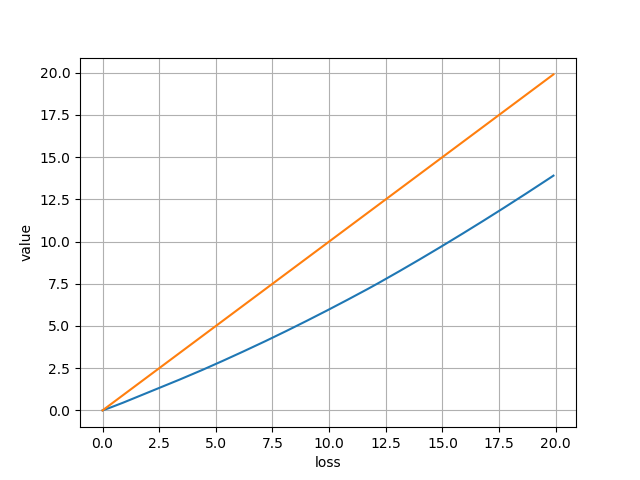
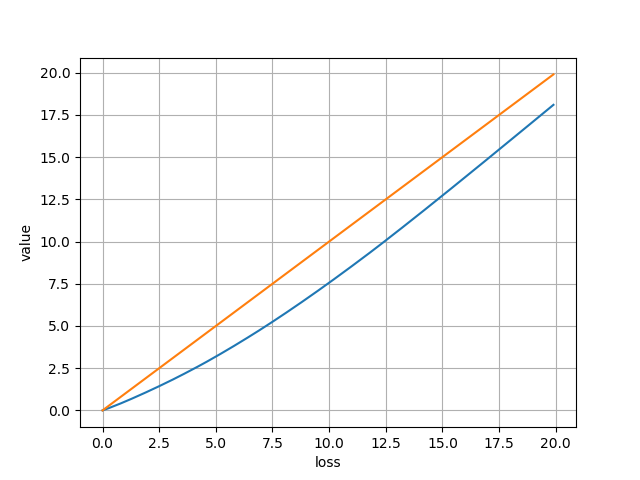
Fix dataloaders

diff --git a/meta-weight-net-class-imbalance.py b/meta-weight-net-class-imbalance.py
@@ -100,8 +100,8 @@ for cls_idx, img_id_list in data_list.items():
 print(len(idx_to_del))
 
 imbalanced_train_dataset = copy.deepcopy(train_data)
-imbalanced_train_dataset.train_labels = np.delete(train_loader.dataset.train_labels, idx_to_del, axis=0)
-imbalanced_train_dataset.train_data = np.delete(train_loader.dataset.train_data, idx_to_del, axis=0)
+imbalanced_train_dataset.targets = np.delete(train_loader.dataset.targets, idx_to_del, axis=0)
+imbalanced_train_dataset.data = np.delete(train_loader.dataset.data, idx_to_del, axis=0)
 imbalanced_train_loader = torch.utils.data.DataLoader(
     imbalanced_train_dataset, batch_size=args.batch_size, shuffle=True, **kwargs)
 
@@ -158,21 +158,10 @@ def main():
     x = np.arange(0.00, 20.00, 0.1)
     cost_v = torch.tensor(x).float().view(-1, 1).cuda()
     v_lambda = vnet(cost_v)
-    norm_c = torch.sum(v_lambda)
-
-    if norm_c != 0:
-        v_lambda_norm = v_lambda / norm_c
-    else:
-        v_lambda_norm = v_lambda
-
-    l_f_meta_array_norm = cost_v * v_lambda_norm
-    l_f_meta_array = cost_v * v_lambda
-
     fig, ax = plt.subplots()
-    ax.plot(x, l_f_meta_array.cpu().detach().numpy())
-    ax.plot(x, x)
 
-    ax.set(xlabel='loss', ylabel='value')
+    ax.plot(x, v_lambda.cpu().detach().numpy())
+    ax.set(xlabel='loss', ylabel='weight')
     ax.grid()
 
     address = "task.png"
@@ -193,9 +182,6 @@ def train(train_loader, validation_loader,model, vnet,optimizer_a,optimizer_c,ep
         input_var = to_var(input, requires_grad=False)
         target_var = to_var(target, requires_grad=False)
 
-        for i in range(10):
-            print(len(np.where(target==i)[0]))
-        print()
         meta_model = build_model()
 
         meta_model.load_state_dict(model.state_dict())
@@ -221,7 +207,6 @@ def train(train_loader, validation_loader,model, vnet,optimizer_a,optimizer_c,ep
         del grads
 
         input_validation, target_validation = next(iter(validation_loader))
-        print(len(validation_loader))
         input_validation_var = to_var(input_validation, requires_grad=False)
         target_validation_var = to_var(target_validation, requires_grad=False)
         y_g_hat = meta_model(input_validation_var)

diff --git a/data_utils.py b/data_utils.py
@@ -58,10 +58,10 @@ def build_dataset(dataset,num_meta):
         idx_to_train.extend(img_id_list[img_num:])
     train_data = copy.deepcopy(train_dataset)
     train_data_meta = copy.deepcopy(train_dataset)
-    train_data_meta.train_data = np.delete(train_dataset.data,idx_to_train,axis=0)
-    train_data_meta.train_labels = np.delete(train_dataset.targets, idx_to_train, axis=0)
-    train_data.train_data = np.delete(train_dataset.data, idx_to_meta, axis=0)
-    train_data.train_labels = np.delete(train_dataset.targets, idx_to_meta, axis=0)
+    train_data_meta.data = np.delete(train_dataset.data,idx_to_train,axis=0)
+    train_data_meta.targets = np.delete(train_dataset.targets, idx_to_train, axis=0)
+    train_data.data = np.delete(train_dataset.data, idx_to_meta, axis=0)
+    train_data.targets = np.delete(train_dataset.targets, idx_to_meta, axis=0)
 
     return train_data_meta,train_data,test_dataset
 
